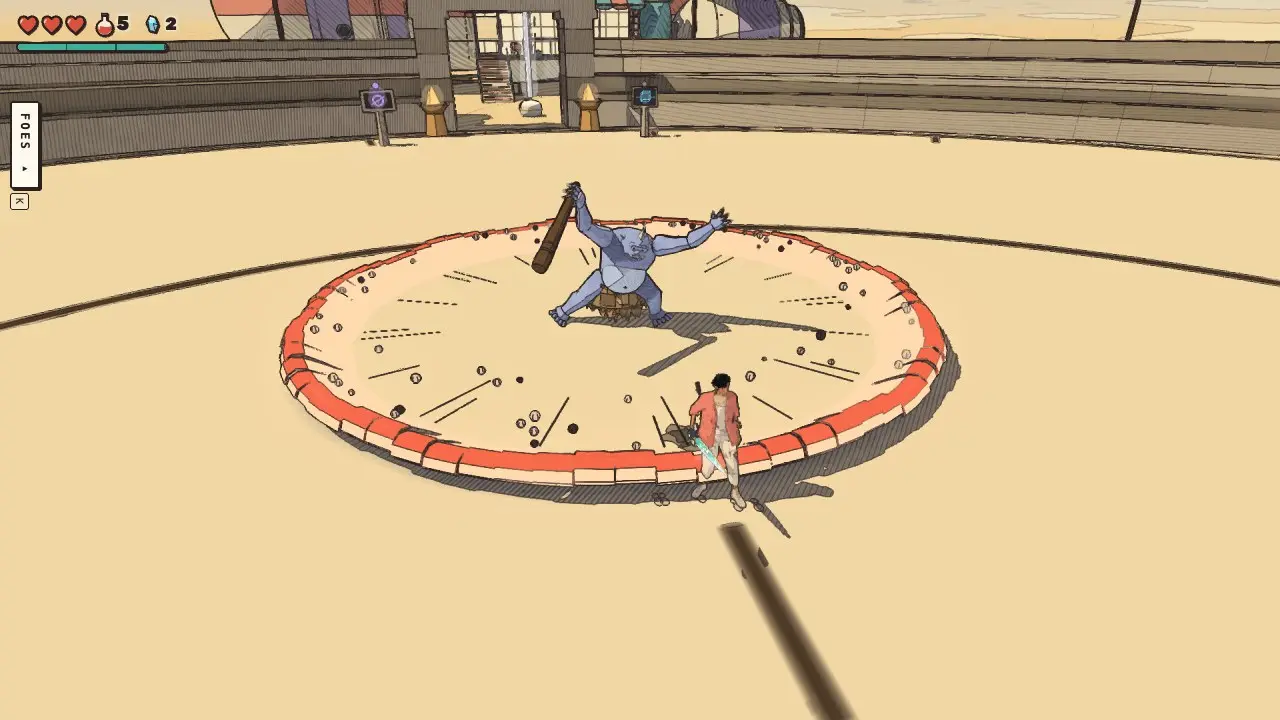
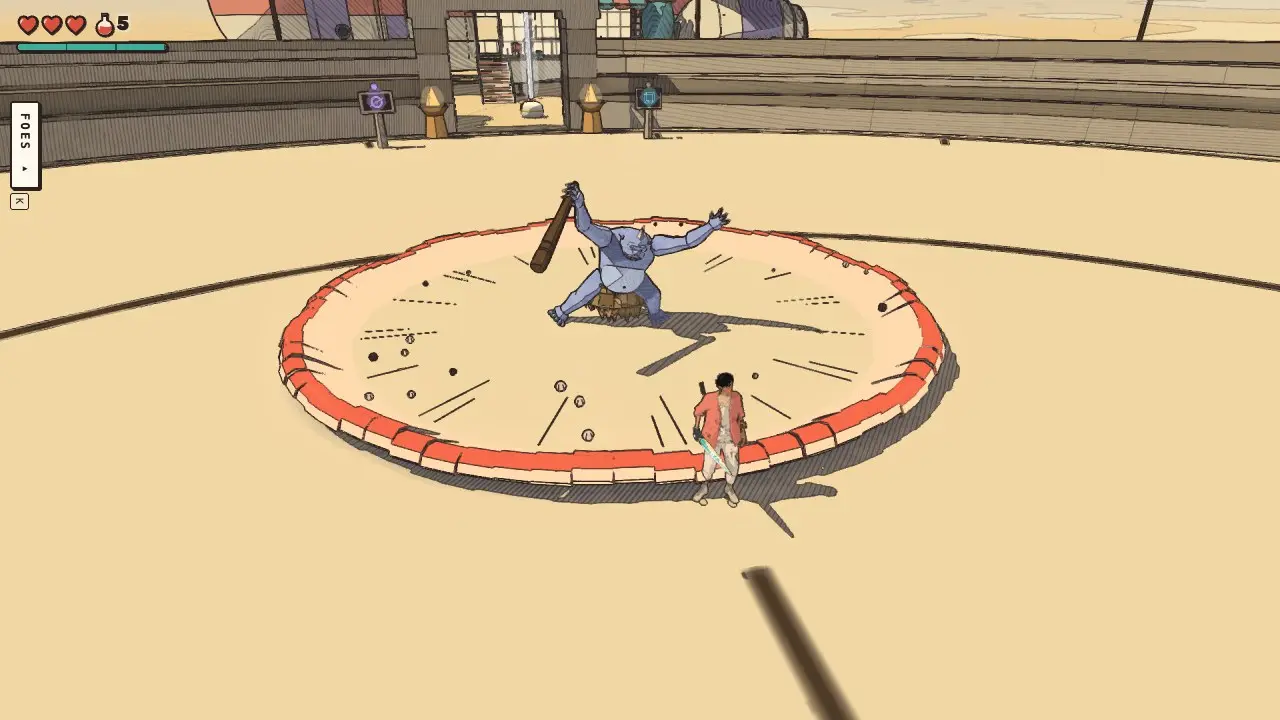
Refs #758: Unity check of the ground warnings, grit by the game's time
The wave's grit is thrown at 60 a second by the game's clock (it was two a
frame, so Unity's batch run, stepping more frames, buried the wave in it).

engine/unity/game.js: the -fight warnings plan waits for each moment in the
game (the rock and the fuse past 80 % of their wind-ups, the wave past
5.4 m) instead of a clock's guess (a wait step may take `until(game)`).
Checked with BridgeBatch.Run -mute -level arena -fight warnings on an APFS
clone of the main checkout's Library (deleted after): the lob mark, the
area's hatching and orange, and the wave's curl, crest, speed lines and
grit draw in Unity as on the web. Those three pictures join the changelog
lines, and the web's wave pictures are retaken with the final grit.

diff --git a/src/changelog-media.js b/src/changelog-media.js
@@ -1406,6 +1406,7 @@ const TIER_CAMP748 = "const F = window.foes, add = F.add.bind(F); F.add = (k, at
 const LOCK752 = 'Issues #752 and #755: the camera QC (.claude/skills/camera-qc/run.mjs, SHOTS=1: the page itself, the ring and the HUD on it) in muted headless Chrome (--mute-audio, the game’s volumes at 0), Medium, 1280 × 720, Vite on port 5492, the game stepped 1/60 s a frame, 28 October 2026: the Arena, the foe held at its middle (its own update running, its blows dropped), the traveller locked on and standing at that distance; the before on this branch with only the measuring added (the camera and the ring as at 35d2c0e2c), the after with the change; cwebp -q 72. The two runs walk the same points, but the foe’s idle pose and the camera’s turn differ a little';
 /** (v2.35, issue #758: the ground warnings) */
 const FROM758 = 'Hand-made frames of the web game (no `view`): a script of mine drove muted headless Chrome (--mute-audio, hiraeth.muted, the audio context suspended and the volumes at 0) against a vite server on port 5496, the Arena at High, 1280 × 720, the game’s clock stepped at 1/60 s and held still at each moment, the follow camera, the waves held off. The foe was added by hand in front of the traveller (a grunt 8 m ahead throwing its rock; a crawler 3.2 m ahead, cut low so its fuse lights; a hulk 6 m ahead stomping with the quake its banded tier sends) and its move forced. Before: the tree of 35d2c0e2c (main at the branch point); after: this change. 28 October 2026. The traveller and the foes move a little between the two loads.';
+const UNITY758 = 'Issue #758: Unity 6000.6.4f1 editor batch run of this change (BridgeBatch.Run -mute -level arena -fight warnings, an APFS clone of the main checkout’s Library, deleted after), the follow camera and HUD at 1280 × 720, each moment waited for in the game (the rock and the fuse past 80 % of the wind-up, the wave past 5.4 m), 28 October 2026. After only: the same JS drawn through the mirror (instanced meshes and their colours), no shader of its own.';
 const FROM758HH = 'Hand-made frame of this change in the web game, Handheld preset, 1280 × 720, muted headless Chrome, the same script and moments as the Arena pairs (the foe added by hand in front of the traveller where the world loads him), 28 October 2026. After only: an older build has the flat marks the Arena pairs show.';
 
 export const CHANGELOG_MEDIA = {
@@ -1552,6 +1553,7 @@ export const CHANGELOG_MEDIA = {
     { name: 'warn-lob-impact', size: [1280, 720], caption: 'Five frames after the rock lands: before, nothing left on the ground; after, a burst of grit strokes inside exactly the ring, the ring fading thin', from: FROM758, view: 'The Arena, the same grunt, five frames after its wind-up ends' },
     { name: 'warn-lob-grass', title: 'Grass, Handheld', only: 'after', size: [1280, 720], caption: 'On Viridel’s grass at the Handheld preset: the shadow early in the wind-up, soft and hatched round its edge, the ring still wide', from: FROM758HH, view: 'Viridel where the world loads the traveller, a grunt 8 m ahead, its rock at 80 % of the wind-up' },
     { name: 'warn-lob-stone', title: 'Stone, Handheld', only: 'after', size: [1280, 720], caption: 'On the City Floating in Space’s paving at the Handheld preset: the ring and the shadow on pale stone, the ring partly hidden behind a railing in the foreground', from: FROM758HH, view: 'The City Floating in Space where the world loads the traveller, a grunt 8 m ahead, its rock at 80 % of the wind-up' },
+    { name: 'warn-lob-unity', title: 'Unity', only: 'after', size: [1280, 720], caption: 'Unity: a grunt’s rock past 80 % of its wind-up, the dark shadow inside the tightened ring and its ticks, as the web draws it', from: UNITY758, view: 'The Arena, a grunt 7 m ahead (it closed in), its rock past 80 %' },
   ], see: 'In the Arena, pick the grunt or the prowler from the foe list and stand back: watch the ground at your feet as it throws.' },
   { match: 'A crawler about to blow itself up now marks how far its blast reaches', shots: [
     { name: 'warn-area', size: [1280, 720], caption: 'A crawler’s fuse at 86 %: before, nothing on the ground (the little body alone said it); after, its blast’s reach, the ring red-orange, the hatching grown in from it, the zone gone warm orange', from: FROM758, view: 'The Arena, a crawler 3.2 m ahead cut low, its fuse at 86 % (k > 0.86), held still',
@@ -1560,12 +1562,14 @@ export const CHANGELOG_MEDIA = {
     { name: 'warn-area-blast', size: [1280, 720], caption: 'The blast: before, the bright ring of light alone; after, a flower of orange petals out to exactly the ring, under the same light', from: FROM758, view: 'The Arena, the same crawler, the blast 0.16 s old' },
     { name: 'warn-area-grass', title: 'Grass, Handheld', only: 'after', size: [1280, 720], caption: 'On Viridel’s grass at the Handheld preset, the fuse at 86 %', from: FROM758HH, view: 'Viridel, a crawler 3.2 m ahead, its fuse at 86 %' },
     { name: 'warn-area-stone', title: 'Stone, Handheld', only: 'after', size: [1280, 720], caption: 'On the City Floating in Space’s paving at the Handheld preset: the ring follows the ground, up the foot of the stair behind (a railing in the foreground)', from: FROM758HH, view: 'The City Floating in Space, a crawler 3.2 m ahead, its fuse at 86 %' },
+    { name: 'warn-area-unity', title: 'Unity', only: 'after', size: [1280, 720], caption: 'Unity: a crawler’s fuse past 86 %, the hatching grown in and the zone gone orange, as the web draws it', from: UNITY758, view: 'The Arena, a crawler 3.5 m ahead, its fuse past 86 %' },
   ], see: 'In the Arena, pick the crawler from the foe list and cut it down low: it lights its fuse and runs at you.' },
   { match: 'A stomp’s shockwave is now a knee-high curl of sand', shots: [
     { name: 'warn-wave', size: [1280, 720], caption: 'The quake 5.4 m out from a hulk’s stomp: before, a flat orange ring with a dark one inside it; after, a knee-high curl of sand with a red-orange crest rolling out, speed lines inked behind it, grit thrown off it', from: FROM758, view: 'The Arena, a hulk 6 m ahead stomping with its banded tier’s quake, the wave at 5.4 m',
       reference: { sheet: 'references/effects/wave/sheet-1.jpg', caption: 'The sheet the wave was drawn to (the author’s pick, round two’s gemini/1, 28 October): the curl of sand bursting out of the stomp, rolling out, jumped, and the scored ring it leaves' } },
     { name: 'warn-wave-spent', size: [1280, 720], caption: 'A moment after it dies out at its reach: before, nothing; after, a scored ring in the ground and settling grit, fading', from: FROM758, view: 'The Arena, the same stomp, twelve frames after the wave reached 8 m' },
     { name: 'warn-wave-grass', title: 'Grass, Handheld', only: 'after', size: [1280, 720], caption: 'On Viridel’s grass at the Handheld preset; the curl is not drawn where the ground stands too far above or below the stomp for it to hit (the gap at the left)', from: FROM758HH, view: 'Viridel, a hulk 6 m ahead stomping with the quake, the wave at 5.4 m' },
+    { name: 'warn-wave-unity', title: 'Unity', only: 'after', size: [1280, 720], caption: 'Unity: the quake 5.4 m out from a hulk’s stomp, the curl and its crest, the speed lines and the grit, as the web draws it', from: UNITY758, view: 'The Arena, a hulk 6 m ahead stomping with its banded tier’s quake, the wave past 5.4 m' },
   ], see: 'In the Arena, pick the hulk (a banded one stomps a quake) or the machine from the foe list: jump the curl as it reaches you.' },
   ],
   '2.34': [

diff --git a/src/ground-warnings.js b/src/ground-warnings.js
@@ -34,7 +34,7 @@ export const LOB = { wide: 0.45, tight: 0.9, ring: 36, dashUntil: 0.3, ticksFrom
 /** The area's mark: segments, hatch lines, leaning blades, when the hatching grows and the orange comes, the flower. */
 export const AREA = { ring: 48, hatch: 48, lean: 24, fill: [0.35, 0.75], warm: 0.72, flower: 0.45, petals: 12 };
 /** The wave's curl: height (m, knee-high), segment length (m), at least / at most, speed lines, the step it skips. */
-export const SHOCK = { height: 0.55, seg: 0.45, min: 24, max: 96, lines: 24, grow: 0.15, fade: 0.2, scar: 1.1 };
+export const SHOCK = { height: 0.55, seg: 0.45, min: 24, max: 96, lines: 24, grow: 0.15, fade: 0.2, scar: 1.1, grit: 60 };
 /** A wave is not drawn where the ground is this far up or down from where it started (it does not hit there). */
 export const SHOCK_STEP = 1.2;
 /** How far over the ground the strokes sit (m), by layer. */
@@ -107,7 +107,7 @@ export class GroundWarnings {
     this.free = [];            // pooled warnings
     this.bursts = []; this.freeBursts = [];
     this.cells = new Map();
-    this.frame = 0; this.idle = 0;
+    this.frame = 0; this.idle = 0; this.dt = 0;
     this.stats = { warnings: 0, bursts: 0, strokes: 0, discs: 0, curls: 0, rays: 0, made: 0 };
   }
 
@@ -118,7 +118,7 @@ export class GroundWarnings {
     let w = byKey[sub];
     if (!w || w.kind !== kind) {
       w = byKey[sub] = this.free.pop() ?? (this.stats.made++, { at: new THREE.Vector3() });
-      w.kind = kind; w.k = 0; w.r = 0; w.r0 = 0; w.R = 1; w.width = 0.5; w.reach = 1; w.tone = null; w.peak = 0;
+      w.kind = kind; w.k = 0; w.r = 0; w.r0 = 0; w.R = 1; w.width = 0.5; w.reach = 1; w.tone = null; w.peak = 0; w.grit = 0;
     }
     w.seen = this.frame;
     return w;
@@ -295,11 +295,12 @@ export class GroundWarnings {
       const a = (i + 0.37 * (i % 3)) / SHOCK.lines * Math.PI * 2, back = r - width - 0.1;
       this.radial(at.x, at.z, y, a, back, back - L * (i % 2 ? 0.6 : 1), 0.02, ink, LIFT.hatch);
     }
-    // grit thrown off its crest, a little each frame
+    // grit thrown off its crest, SHOCK.grit a second (by the game's time: the same at any frame rate)
     const D = typeof this.drops === 'function' ? this.drops() : this.drops;
-    if (D?.add && h > 0.15) for (let i = 0; i < 2; i++) {
+    w.grit = Math.min(4, w.grit + this.dt * SHOCK.grit);
+    if (D?.add && h > 0.15) for (let i = 0; w.grit >= 1; i++, w.grit--) {
       const a = Math.random() * 6.283, s = Math.sin(a), c = Math.cos(a);
-      D.add({ pos: _x.set(at.x + s * r, y + h * 0.9, at.z + c * r), vel: _z.set(s * 2.5, 1.5 + Math.random() * 1.5, c * 2.5), drag: 2.5, grav: 8, size: 0.04 + Math.random() * 0.04, life: 0.45, color: i || Math.random() < 0.6 ? '#cdb89a' : GW_TONE.ink });
+      D.add({ pos: _x.set(at.x + s * r, y + h * 0.9, at.z + c * r), vel: _z.set(s * 2.5, 1.5 + Math.random() * 1.5, c * 2.5), drag: 2.5, grav: 8, size: 0.04 + Math.random() * 0.04, life: 0.45, color: i % 3 || Math.random() < 0.6 ? '#cdb89a' : GW_TONE.ink });
     }
   }
 
@@ -343,6 +344,7 @@ export class GroundWarnings {
 
   /** Once a frame, after everything has touched its warnings: draw them, let go of the untouched, age the bursts. */
   update(dt) {
+    this.dt = dt;
     for (const P of [this.strokes, this.discs, this.curls, this.crests]) P.n = 0;
     let warnings = 0;
     for (const [key, list] of this.live) {

diff --git a/engine/unity/game.js b/engine/unity/game.js
@@ -890,10 +890,13 @@ function makePlan(args) {
     // (the landing mark at the traveller's feet, its shadow crisp and its ring tight), a crawler 3.5 m ahead lights its
     // fuse (its blast's reach hatched in and turning orange), a hulk 6 m ahead stomps (the shockwave rolling out to him))
     const shot = (name) => (args.out ? [{ kind: 'shot', file: `${args.out}/unity-warnings-${name}.png` }] : []);
-    const one = (what, dist, move, secs) => [{ kind: 'foe', what: 'clear' }, { kind: 'foe', what: 'face' }, { kind: 'foe', what, dist, hp: 99 }, { kind: 'wait', frames: 30, secs: 0.5 },
-      { kind: 'foe', what: 'warn-move', move }, { kind: 'wait', frames: Math.round(secs * 60), secs }];
-    steps.push({ kind: 'wait', frames: 60, secs: 2 }, ...one('grunt@desert', 7, 'rock', 0.7), ...shot('lob'), ...one('crawler@desert', 3.5, 'blast', 1.45), ...shot('area'),
-      ...one('hulk@desert', 6, 'stomp', 1.55), ...shot('wave'));
+    // (each pictured at a moment of its move, as the web's pictures are: the rock and the fuse at 80 % of the wind-up, the
+    // wave 5.4 m out)
+    const winding = (kind, k) => (G) => G.foes.list.some((f) => f.alive && f.kind === kind && f.state === 'wind' && f.k > k);
+    const one = (what, dist, move, until) => [{ kind: 'foe', what: 'clear' }, { kind: 'foe', what: 'face' }, { kind: 'foe', what, dist, hp: 99 }, { kind: 'wait', frames: 30, secs: 0.5 },
+      { kind: 'foe', what: 'warn-move', move }, { kind: 'wait', until, cap: 6 }, { kind: 'wait', frames: 2 }];
+    steps.push({ kind: 'wait', frames: 60, secs: 2 }, ...one('grunt@desert', 7, 'rock', winding('grunt', 0.8)), ...shot('lob'), ...one('crawler@desert', 3.5, 'blast', winding('crawler', 0.86)), ...shot('area'),
+      ...one('hulk@desert', 6, 'stomp', (G) => G.foes.shocks?.some((s) => s.r > 5.4)), ...shot('wave'));
   }
   // (-fight site:<id>,…: an encounter site of this world (issue #722, src/encounters/): the traveller set down 16 m in front of
   // it facing it, its things made and its foes out in their idle, a picture from his follow camera)
@@ -1622,7 +1625,8 @@ function playFrame(dt) {
     game.pin({ eye: [p.x + 2.6, p.y + 1.9, p.z + 2.6], target: [p.x, p.y + 0.9, p.z], fov: 50, hidePlayer: false });
     next();
   }
-  else if (step.kind === 'wait') { P.t += Math.min(dt, 0.05); if (++P.wait >= step.frames && P.t >= (step.secs ?? 0)) next(); }
+  // (a wait may hold until the game shows something, `until(game)`, at most `cap` s: a moment of a move, not a clock's guess)
+  else if (step.kind === 'wait') { P.t += Math.min(dt, 0.05); if (step.until ? step.until(game) || P.t >= (step.cap ?? 10) : ++P.wait >= step.frames && P.t >= (step.secs ?? 0)) next(); }
   else if (step.kind === 'measure') {
     if (!P.samples && step.talk) talkClock(game, P);
     if (!P.samples) { game.mirror.profiling = !!S.args.split; game.sectionsOn = !!S.args.split; game.sections?.(); game.mirror.profile(); backend.stats.hostMs = 0; host.ApplyMs(); host.ClothMs?.(); host.CapeMs?.(); host.WaitMs?.(); host.GpuSplit?.(); host.RenderStats?.(); S.audioMs = 0; P.n0 = backend.stats.frames; S.lookMs = 0; S.looks = backend.stats.looks ?? 0; }
